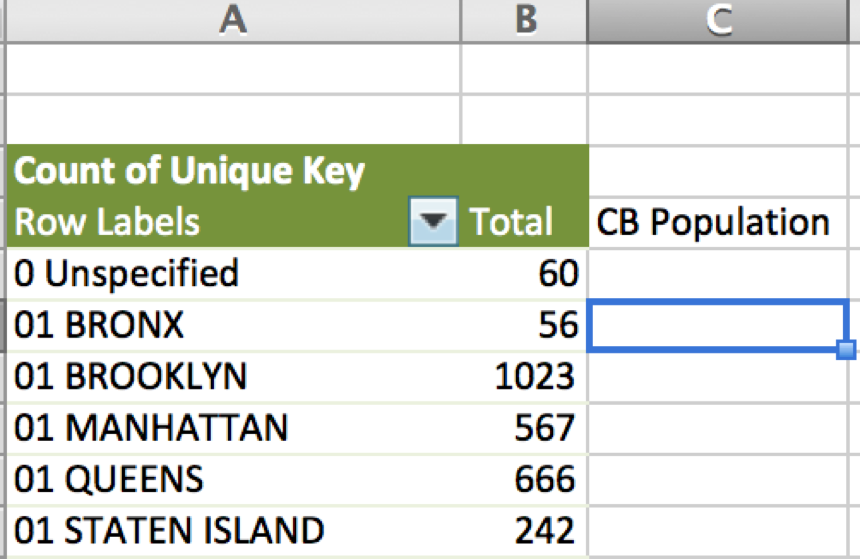
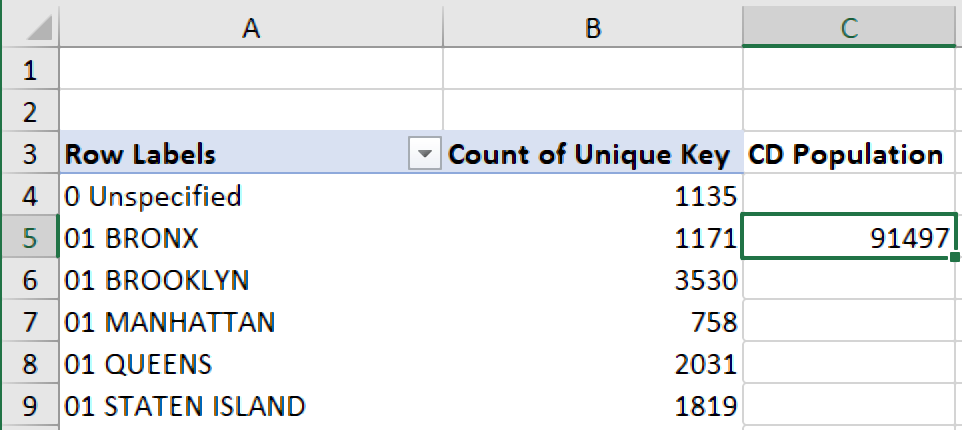
content to close #11

diff --git a/index.html b/index.html
@@ -1092,19 +1092,43 @@ class:center,middle
 
 ---
 
+# Preparing the 311 Data
+--
+
++ Aggregate the number of noise-related complaints by Community District
+--
+
++ HINT: Use a PivotTable
+--
+
+
+![img-center-70](images/cd_pt.png)
+---
+
+# Preparing the 311 Data
++ Add a column labeled `CD Population`
+
+![img-center-90](images/cd_pop_prep.png)
+--
+
++ This is where we're going to import the population using `VLOOKUP`
+
+---
+
 # Adding the VLOOKUP
-+ We need to lookup the population based on the Community Board and Borough
-
 ```
-=VLOOKUP(A5,'[NYC_Population_1970-2010_formatted.xlsx]A'!$A$2:$G$60,7,FALSE)
+=VLOOKUP(A5,'[NYC_Population_1970-2010.xlsx]A'!$A$2:$G$60,7,FALSE)
 ```
 
 --
 
-+ Use the value in cell A5
++ Use the value in cell A5 (from our PivotTable of complaints by `Community Board`)
 --
 
-+ Go to Workbook `NYC_Population_1970-2010_formatted.xlsx`, Sheet `A`
++ Go to Workbook `NYC_Population_1970-2010.xlsx`
+--
+
++ Find Sheet `A`
 --
 
 + Match the value from cell A5 in Column A, Rows 2 - 60
@@ -1118,14 +1142,18 @@ class:center,middle
 ---
 
 # Adding the VLOOKUP
++ Verify the result
 
-![img-center-90](images/vlookup1.png)
+![img-center-100](images/vlookup1.png)
+
+
 
 ---
 
 # Adding the VLOOKUP
 
-![img-center-90](images/vlookup2.png)
++ Copy and paste the formula
+![img-center-90](images/vlookup_copy.gif)
 
 ---
 
@@ -1133,9 +1161,7 @@ class:center,middle
 
 ![img-center-90](images/calc_complaints1.png)
 
----
-
-# Calculating the Complaints per 1000 People
+--
 
 ![img-center-90](images/calc_complaints2.png)
 
